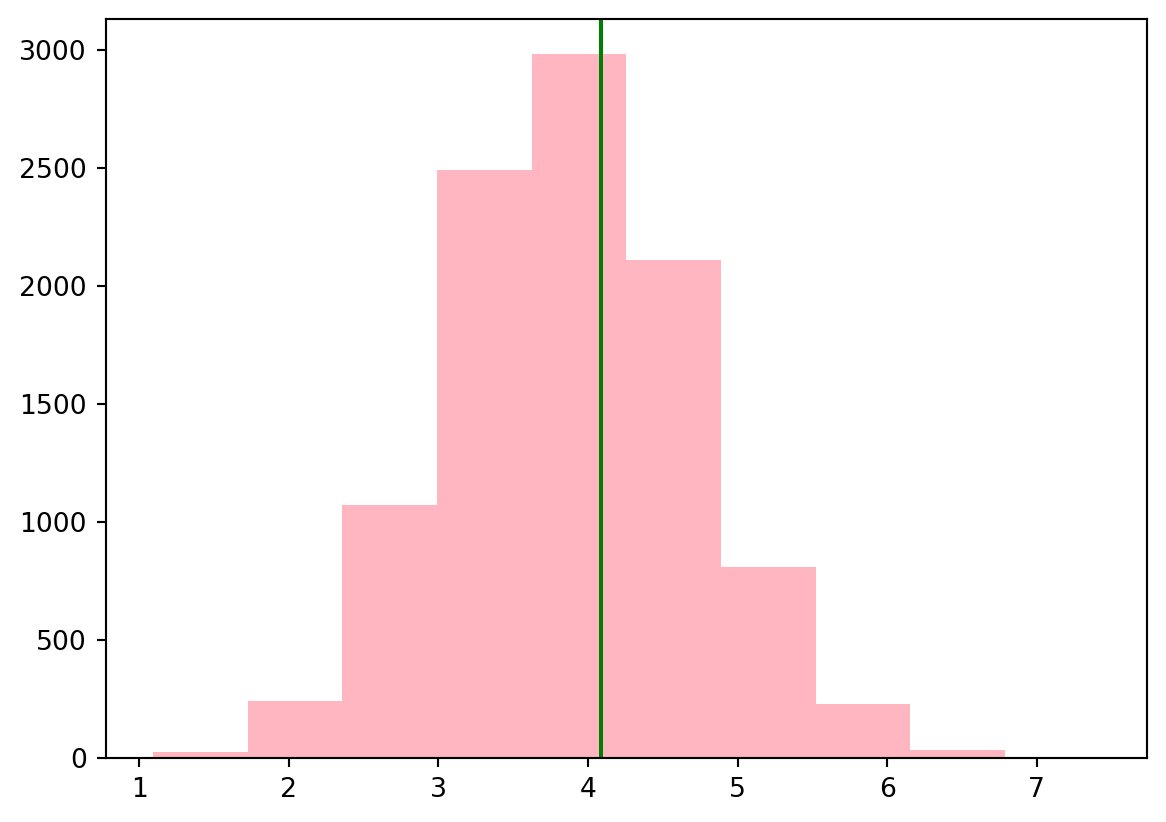
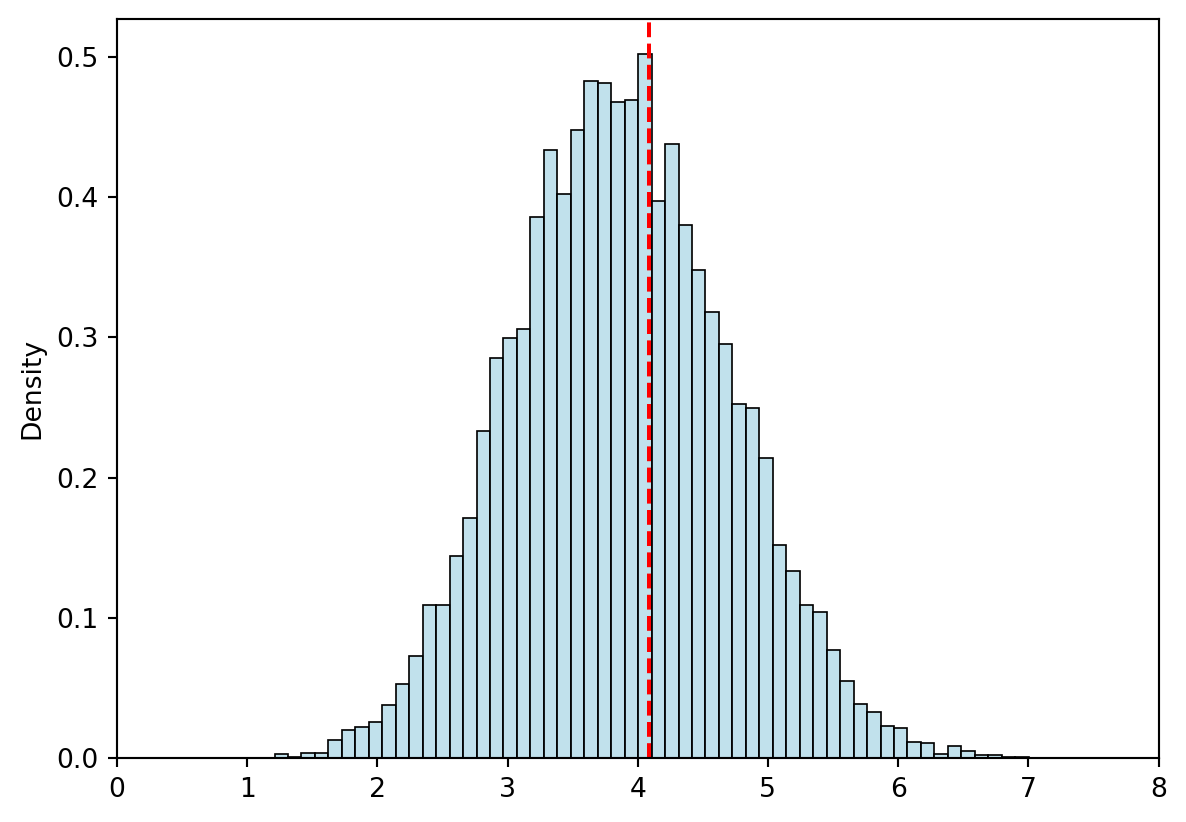
UPDATE - stat - hw6

diff --git a/docs/posts/hw6/hw6.html b/docs/posts/hw6/hw6.html
@@ -211,29 +211,30 @@ pre > code.sourceCode > span > a:first-child::before { text-decoration: underlin
 <li>결과를 살펴보고, 왜 <strong>n-1</strong>로 나눈 것을 분산을 추정하는 지표로 사용하는 것이 타당한 지 서술하기.</li>
 </ul>
 <p><strong>0. 필요한 패키지 가져오기</strong></p>
-<div id="dece5cee" class="cell" data-execution_count="1">
-<div class="sourceCode cell-code" id="cb1"><pre class="sourceCode python code-with-copy"><code class="sourceCode python"><span id="cb1-1"><a href="#cb1-1" aria-hidden="true" tabindex="-1"></a><span class="im">from</span> scipy.stats <span class="im">import</span> uniform</span>
-<span id="cb1-2"><a href="#cb1-2" aria-hidden="true" tabindex="-1"></a><span class="im">import</span> matplotlib.pyplot <span class="im">as</span> plt</span></code><button title="Copy to Clipboard" class="code-copy-button"><i class="bi"></i></button></pre></div>
+<div id="9fc73dad" class="cell" data-execution_count="1">
+<div class="sourceCode cell-code" id="cb1"><pre class="sourceCode python code-with-copy"><code class="sourceCode python"><span id="cb1-1"><a href="#cb1-1" aria-hidden="true" tabindex="-1"></a><span class="im">import</span> numpy <span class="im">as</span> np</span>
+<span id="cb1-2"><a href="#cb1-2" aria-hidden="true" tabindex="-1"></a><span class="im">from</span> scipy.stats <span class="im">import</span> uniform</span>
+<span id="cb1-3"><a href="#cb1-3" aria-hidden="true" tabindex="-1"></a><span class="im">import</span> seaborn <span class="im">as</span> sns </span>
+<span id="cb1-4"><a href="#cb1-4" aria-hidden="true" tabindex="-1"></a><span class="im">import</span> matplotlib.pyplot <span class="im">as</span> plt</span></code><button title="Copy to Clipboard" class="code-copy-button"><i class="bi"></i></button></pre></div>
 </div>
 <p><strong>1. <code>s_2</code> 분포 그래프 그리기</strong></p>
-<div id="520fcc64" class="cell" data-execution_count="2">
+<div id="92350e2b" class="cell" data-execution_count="2">
 <div class="sourceCode cell-code" id="cb2"><pre class="sourceCode python code-with-copy"><code class="sourceCode python"><span id="cb2-1"><a href="#cb2-1" aria-hidden="true" tabindex="-1"></a>x<span class="op">=</span>uniform.rvs(loc<span class="op">=</span><span class="dv">3</span>, scale<span class="op">=</span><span class="dv">7</span>, size<span class="op">=</span><span class="dv">20</span><span class="op">*</span><span class="dv">10000</span>)</span>
 <span id="cb2-2"><a href="#cb2-2" aria-hidden="true" tabindex="-1"></a>x<span class="op">=</span>x.reshape(<span class="op">-</span><span class="dv">1</span>, <span class="dv">20</span>)</span>
-<span id="cb2-3"><a href="#cb2-3" aria-hidden="true" tabindex="-1"></a>x.shape</span></code><button title="Copy to Clipboard" class="code-copy-button"><i class="bi"></i></button></pre></div>
-<div class="cell-output cell-output-display" data-execution_count="6">
-<pre><code>(10000, 20)</code></pre>
+<span id="cb2-3"><a href="#cb2-3" aria-hidden="true" tabindex="-1"></a>x.shape</span>
+<span id="cb2-4"><a href="#cb2-4" aria-hidden="true" tabindex="-1"></a>pop_var <span class="op">=</span> uniform.var(loc<span class="op">=</span><span class="dv">3</span>, scale<span class="op">=</span><span class="dv">7</span>)</span></code><button title="Copy to Clipboard" class="code-copy-button"><i class="bi"></i></button></pre></div>
 </div>
-</div>
-<div id="4e69f682" class="cell" data-execution_count="3">
-<div class="sourceCode cell-code" id="cb4"><pre class="sourceCode python code-with-copy"><code class="sourceCode python"><span id="cb4-1"><a href="#cb4-1" aria-hidden="true" tabindex="-1"></a>s_2 <span class="op">=</span> x.var(axis<span class="op">=</span><span class="dv">1</span>, ddof<span class="op">=</span><span class="dv">1</span>)</span>
-<span id="cb4-2"><a href="#cb4-2" aria-hidden="true" tabindex="-1"></a>plt.hist(s_2, color <span class="op">=</span> <span class="st">"lightpink"</span>)</span>
-<span id="cb4-3"><a href="#cb4-3" aria-hidden="true" tabindex="-1"></a>plt.axvline(x.var(), color<span class="op">=</span><span class="st">"green"</span>)</span>
-<span id="cb4-4"><a href="#cb4-4" aria-hidden="true" tabindex="-1"></a>plt.show()</span>
-<span id="cb4-5"><a href="#cb4-5" aria-hidden="true" tabindex="-1"></a>plt.clf()</span></code><button title="Copy to Clipboard" class="code-copy-button"><i class="bi"></i></button></pre></div>
+<div id="703bcbee" class="cell" data-execution_count="3">
+<div class="sourceCode cell-code" id="cb3"><pre class="sourceCode python code-with-copy"><code class="sourceCode python"><span id="cb3-1"><a href="#cb3-1" aria-hidden="true" tabindex="-1"></a>s_2 <span class="op">=</span> np.var(x, axis<span class="op">=</span><span class="dv">1</span>, ddof<span class="op">=</span><span class="dv">1</span>)</span>
+<span id="cb3-2"><a href="#cb3-2" aria-hidden="true" tabindex="-1"></a>sns.histplot(s_2, stat<span class="op">=</span><span class="st">'density'</span>, color <span class="op">=</span> <span class="st">"lightpink"</span>)</span>
+<span id="cb3-3"><a href="#cb3-3" aria-hidden="true" tabindex="-1"></a>plt.axvline(pop_var, color<span class="op">=</span><span class="st">"red"</span>, linestyle <span class="op">=</span> <span class="st">'--'</span>)</span>
+<span id="cb3-4"><a href="#cb3-4" aria-hidden="true" tabindex="-1"></a>plt.xlim([<span class="dv">0</span>, <span class="dv">8</span>])</span>
+<span id="cb3-5"><a href="#cb3-5" aria-hidden="true" tabindex="-1"></a>plt.show()</span>
+<span id="cb3-6"><a href="#cb3-6" aria-hidden="true" tabindex="-1"></a>plt.clf()</span></code><button title="Copy to Clipboard" class="code-copy-button"><i class="bi"></i></button></pre></div>
 <div class="cell-output cell-output-display">
 <div>
 <figure class="figure">
-<p><img src="hw6_files/figure-html/cell-4-output-1.png" width="583" height="411" class="figure-img"></p>
+<p><img src="hw6_files/figure-html/cell-4-output-1.png" width="593" height="416" class="figure-img"></p>
 </figure>
 </div>
 </div>
@@ -242,16 +243,17 @@ pre > code.sourceCode > span > a:first-child::before { text-decoration: underlin
 </div>
 </div>
 <p><strong>2. <code>k_2</code> 분포 그래프 그리기</strong></p>
-<div id="fd4b9dff" class="cell" data-execution_count="4">
-<div class="sourceCode cell-code" id="cb6"><pre class="sourceCode python code-with-copy"><code class="sourceCode python"><span id="cb6-1"><a href="#cb6-1" aria-hidden="true" tabindex="-1"></a>k_2 <span class="op">=</span> x.var(axis<span class="op">=</span><span class="dv">1</span>, ddof<span class="op">=</span><span class="dv">0</span>)</span>
-<span id="cb6-2"><a href="#cb6-2" aria-hidden="true" tabindex="-1"></a>plt.hist(k_2, color <span class="op">=</span> <span class="st">"lightpink"</span>)</span>
-<span id="cb6-3"><a href="#cb6-3" aria-hidden="true" tabindex="-1"></a>plt.axvline(x.var(), color<span class="op">=</span><span class="st">"green"</span>)</span>
-<span id="cb6-4"><a href="#cb6-4" aria-hidden="true" tabindex="-1"></a>plt.show()</span>
-<span id="cb6-5"><a href="#cb6-5" aria-hidden="true" tabindex="-1"></a>plt.clf()</span></code><button title="Copy to Clipboard" class="code-copy-button"><i class="bi"></i></button></pre></div>
+<div id="41eee834" class="cell" data-execution_count="4">
+<div class="sourceCode cell-code" id="cb5"><pre class="sourceCode python code-with-copy"><code class="sourceCode python"><span id="cb5-1"><a href="#cb5-1" aria-hidden="true" tabindex="-1"></a>k_2 <span class="op">=</span> np.var(x, axis<span class="op">=</span><span class="dv">1</span>, ddof<span class="op">=</span><span class="dv">0</span>)</span>
+<span id="cb5-2"><a href="#cb5-2" aria-hidden="true" tabindex="-1"></a>sns.histplot(k_2, stat<span class="op">=</span><span class="st">'density'</span>, color <span class="op">=</span> <span class="st">"lightblue"</span>)</span>
+<span id="cb5-3"><a href="#cb5-3" aria-hidden="true" tabindex="-1"></a>plt.axvline(pop_var, color<span class="op">=</span><span class="st">"red"</span>, linestyle <span class="op">=</span> <span class="st">'--'</span>)</span>
+<span id="cb5-4"><a href="#cb5-4" aria-hidden="true" tabindex="-1"></a>plt.xlim([<span class="dv">0</span>, <span class="dv">8</span>])</span>
+<span id="cb5-5"><a href="#cb5-5" aria-hidden="true" tabindex="-1"></a>plt.show()</span>
+<span id="cb5-6"><a href="#cb5-6" aria-hidden="true" tabindex="-1"></a>plt.clf()</span></code><button title="Copy to Clipboard" class="code-copy-button"><i class="bi"></i></button></pre></div>
 <div class="cell-output cell-output-display">
 <div>
 <figure class="figure">
-<p><img src="hw6_files/figure-html/cell-5-output-1.png" width="583" height="411" class="figure-img"></p>
+<p><img src="hw6_files/figure-html/cell-5-output-1.png" width="593" height="411" class="figure-img"></p>
 </figure>
 </div>
 </div>

diff --git a/docs/blog.html b/docs/blog.html
@@ -332,7 +332,7 @@ Ahyeong Jeong
 </a>
 </div>
 </div>
-<div class="quarto-post image-right" data-index="4" data-categories="Statistics" data-listing-date-sort="1721833200000" data-listing-file-modified-sort="1722300138853" data-listing-date-modified-sort="NaN" data-listing-reading-time-sort="1" data-listing-word-count-sort="145">
+<div class="quarto-post image-right" data-index="4" data-categories="Statistics" data-listing-date-sort="1721833200000" data-listing-file-modified-sort="1722301444455" data-listing-date-modified-sort="NaN" data-listing-reading-time-sort="1" data-listing-word-count-sort="167">
 <div class="thumbnail">
 <p><a href="./posts/hw6/hw6.html" class="no-external"></a></p><a href="./posts/hw6/hw6.html" class="no-external">
 <p class="card-img-top"><img src="posts\hw6\hw6_files\figure-html\cell-4-output-1.png"  class="thumbnail-image card-img"/></p>
